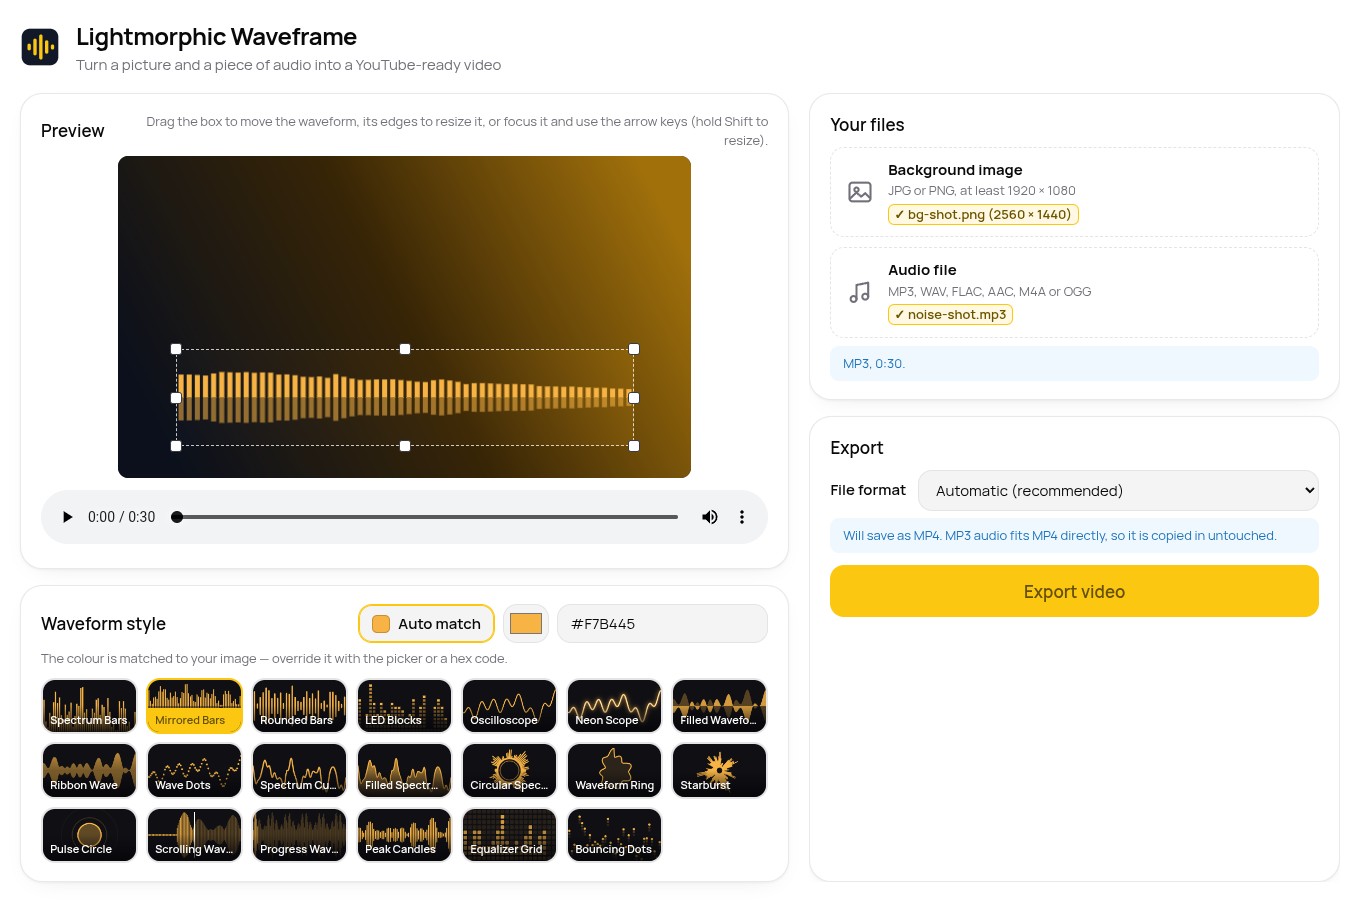
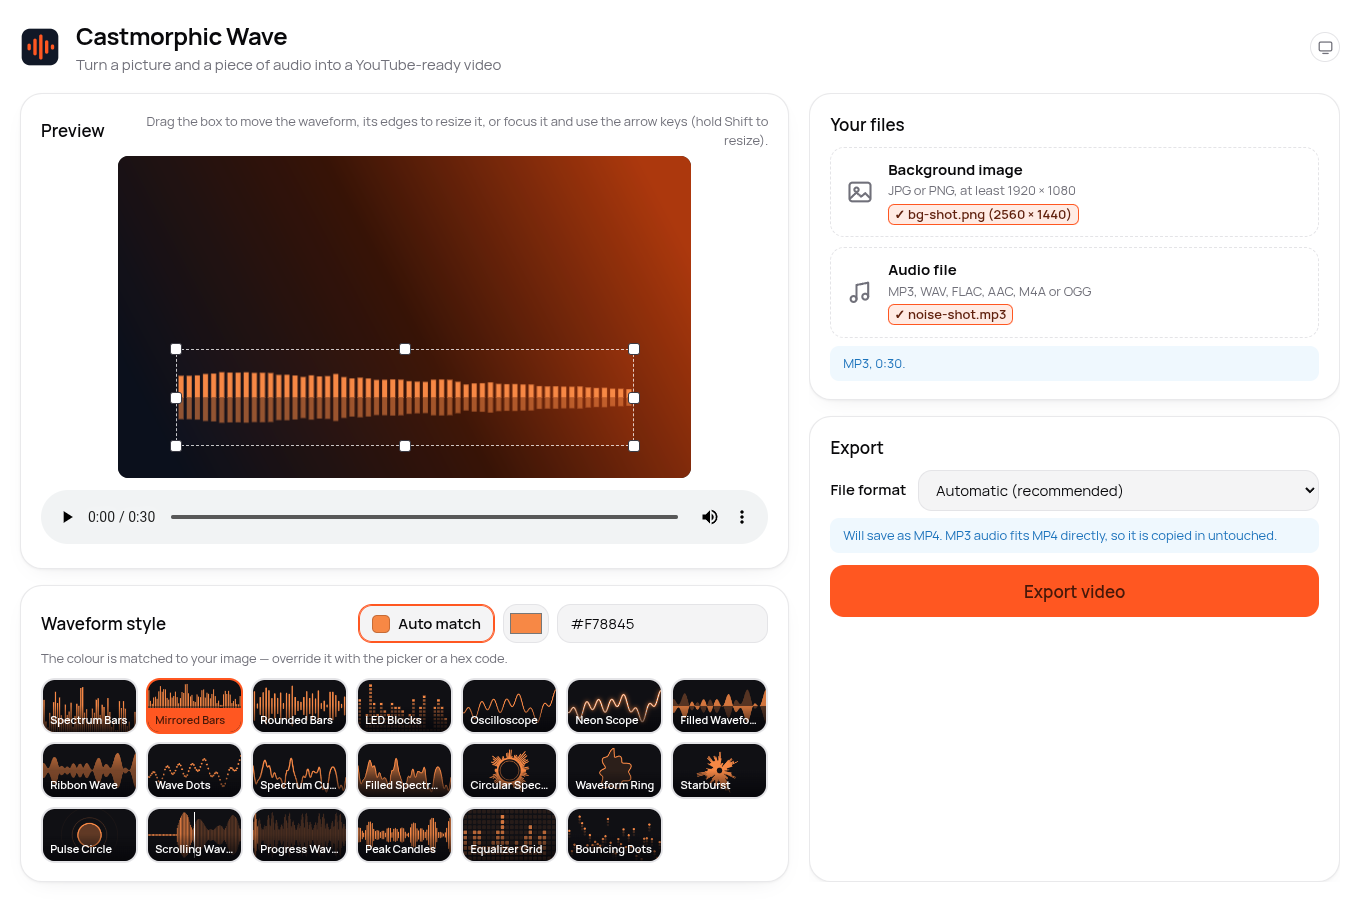
Use the Castmorphic orange, not the Lightmorphic yellow
Castmorphic's brand colour is #FF5721, not Lightmorphic's #FBC711. The
app and the website were still built from the yellow palette.

The accent tokens are taken from castmorphic.com directly, which uses
the same token names, so they map across unchanged: the accent, its
hover and container pairs, and the link colour, in both themes.

Confirmations keep the deliberate choice of the brand colour over green,
now in orange: deep rust text on the pale accent container, 10.6:1 in
light and 8.3:1 in dark, so both clear AA comfortably.

The default waveform colour, the fallback in the style renderer, the
logo in the app header and on the site, the app icon, and the colour
picker's starting value all move to the orange.

The screenshot backdrop gradient moves from amber to rust so that Auto
match still lands on the app's own colour rather than on a hue borrowed
from an unrelated image. Screenshots and the website images are rebuilt
from it, and the site's favicon is the new icon.

The update dot keeps the Lightmorphic status palette - green, amber,
blue, red - because those are the shared update-widget colours across
every app, not this app's brand colour.

Verified: 71 tests pass, and the packaged AppImage launches and exports
with bit-identical audio.

diff --git a/src/renderer/style.css b/src/renderer/style.css
@@ -16,17 +16,17 @@
   --border: #e4e4e7;  --muted: #f4f4f5;  --muted-fg: #71717a;
   --shadow-panel: 0 1px 2px rgba(24,24,40,.05), 0 8px 24px -16px rgba(24,24,40,.18);
 
-  --accent: #fbc711;  --accent-hover: #ddaf0f;  --on-accent: #645007;
-  --accent-container: #fff8e2;  --on-accent-container: #5f4c06;
+  --accent: #ff5721;  --accent-hover: #e04d1d;  --on-accent: #471809;
+  --accent-container: #ffebe4;  --on-accent-container: #61210d;
 
   --brand-navy: #111827;
-  --link: #1b74bc;
+  --link: #c4400f;
   --danger: #cc372d;   --danger-bg: #fef2f1;
-  /* Light mode confirms in the brand yellow rather than green. Flat
-     #fbc711 is unreadable as text on white, so the text is the dark gold
-     from the accent container and the accent itself carries the colour as
-     a rule down the side of the message. */
-  --success: #6b5300;  --success-bg: #fff8e2;
+  /* Light mode confirms in the brand orange rather than green. Flat
+     #ff5721 is unreadable as text on white, so the text is the deep
+     rust from the accent container and the accent itself carries the
+     colour as a rule down the side of the message. 10.6:1. */
+  --success: #61210d;  --success-bg: #ffebe4;
   --warning: #8f6c03;  --warning-bg: #fffbee;
   --info: #1b74bc;     --info-bg: #f0f8fe;
 
@@ -49,12 +49,13 @@
   --panel: #1b1d29;  --panel-border: rgba(255,255,255,.09);
   --border: #27272a;  --muted: #1c1c1f;  --muted-fg: #a1a1aa;
   --shadow-panel: 0 1px 2px rgba(0,0,0,.35), 0 8px 24px -16px rgba(0,0,0,.6);
-  --accent-container: #4b3c05;  --on-accent-container: #fde694;
-  --link: #2295f1;
+  --accent-container: #4d1a0a;  --on-accent-container: #ffb39b;
+  --accent-hover: #ff6b3c;
+  --link: #ff8f68;
   --danger: #f34236;   --danger-bg: #350f0c;
-  /* Same yellow confirmation highlight as light mode, in the dark
-     theme's own accent-container pair so the two themes match. */
-  --success: #fde694;  --success-bg: #4b3c05;
+  /* Same orange confirmation highlight as light mode, in the dark
+     theme's own accent-container pair so the two themes match. 8.3:1. */
+  --success: #ffb39b;  --success-bg: #4d1a0a;
   --warning: #ffc006;  --warning-bg: #382a01;
   --info: #2295f1;     --info-bg: #072135;
 }
@@ -497,8 +498,8 @@ body {
 .dropzone strong { display: block; font-size: 0.9375rem; }
 .dropzone .hint { display: block; margin: 0; }
 .dropzone .file-name {
-  /* A confirmed file is highlighted in the brand yellow: the chip carries
-     the colour, the text is the dark gold that stays readable on it. */
+  /* A confirmed file is highlighted in the brand orange: the chip carries
+     the colour, the text is the deep rust that stays readable on it. */
   display: inline-block;
   margin-top: 0.15rem;
   padding: 0.05rem 0.4rem;
@@ -539,7 +540,7 @@ body {
   background: var(--success-bg);
   color: var(--success);
   /* Keeps a success message distinct from a warning, which sits on a
-     similar pale yellow. */
+     similar pale orange. */
   border-left: 3px solid var(--accent);
 }
 .msg.success .path { word-break: break-all; }

diff --git a/src/renderer/index.html b/src/renderer/index.html
@@ -14,7 +14,7 @@
 <header class="app-header">
   <svg class="logo" viewBox="0 0 48 48" width="40" height="40" aria-hidden="true">
     <rect x="2" y="2" width="44" height="44" rx="10" fill="#111827"/>
-    <g fill="#FBC711">
+    <g fill="#FF5721">
       <rect x="9"  y="20" width="4" height="8"  rx="2"/>
       <rect x="16" y="14" width="4" height="20" rx="2"/>
       <rect x="23" y="9"  width="4" height="30" rx="2"/>
@@ -110,11 +110,11 @@
           </button>
           <label class="colour-pick">
             <span class="visually-hidden">Pick a custom colour</span>
-            <input type="color" id="colour-picker" value="#FBC711">
+            <input type="color" id="colour-picker" value="#FF5721">
           </label>
           <label class="colour-hex">
             <span class="visually-hidden">Hex colour code</span>
-            <input type="text" id="colour-hex" value="#FBC711" spellcheck="false"
+            <input type="text" id="colour-hex" value="#FF5721" spellcheck="false"
                    maxlength="7" pattern="#?[0-9a-fA-F]{6}" aria-describedby="colour-hint">
           </label>
         </div>

diff --git a/site/style.css b/site/style.css
@@ -11,9 +11,10 @@
   --panel: #ffffff;  --panel-border: rgba(24, 24, 40, 0.10);
   --border: #e4e4e7;  --muted: #f4f4f5;  --muted-fg: #71717a;
   --shadow-panel: 0 1px 2px rgba(24,24,40,.05), 0 8px 24px -16px rgba(24,24,40,.18);
-  --accent: #fbc711;  --accent-hover: #ddaf0f;  --on-accent: #645007;
+  --accent: #ff5721;  --accent-hover: #e04d1d;  --on-accent: #471809;
+  --accent-container: #ffebe4;  --on-accent-container: #61210d;
   --brand-navy: #111827;
-  --link: #1b74bc;
+  --link: #c4400f;
   --radius: 0.875rem;
   --panel-radius: 1.375rem;
 }
@@ -24,7 +25,9 @@
     --panel: #1b1d29;  --panel-border: rgba(255,255,255,.09);
     --border: #27272a;  --muted: #1c1c1f;  --muted-fg: #a1a1aa;
     --shadow-panel: 0 1px 2px rgba(0,0,0,.35), 0 8px 24px -16px rgba(0,0,0,.6);
-    --link: #2295f1;
+    --accent-hover: #ff6b3c;
+    --accent-container: #4d1a0a;  --on-accent-container: #ffb39b;
+    --link: #ff8f68;
   }
 }
 

diff --git a/site/index.html b/site/index.html
@@ -77,7 +77,7 @@
     <a class="brand" href="/">
       <svg viewBox="0 0 48 48" width="34" height="34" aria-hidden="true">
         <rect x="2" y="2" width="44" height="44" rx="10" fill="#111827"/>
-        <g fill="#FBC711">
+        <g fill="#FF5721">
           <rect x="9"  y="20" width="4" height="8"  rx="2"/>
           <rect x="16" y="14" width="4" height="20" rx="2"/>
           <rect x="23" y="9"  width="4" height="30" rx="2"/>
@@ -85,7 +85,7 @@
           <rect x="37" y="21" width="4" height="6"  rx="2"/>
         </g>
       </svg>
-      <span>Wave</span>
+      <span>Castmorphic Wave</span>
     </a>
     <nav aria-label="Main">
       <a href="#how">How it works</a>

diff --git a/scripts/screenshots.js b/scripts/screenshots.js
@@ -24,8 +24,8 @@ const FFMPEG = require('ffmpeg-static');
     execFileSync(FFMPEG, ['-hide_banner', '-loglevel', 'error', '-y',
       '-f', 'lavfi', '-i',
       // A warm, on-brand backdrop: Auto match then lands on Wave's own
-      // yellow rather than on a colour borrowed from an unrelated image.
-      'gradients=s=2560x1440:n=3:c0=0x0C1220:c1=0x3F2A07:c2=0xB8800C:x0=200:y0=1300:x1=2400:y1=140:d=1',
+      // orange rather than on a colour borrowed from an unrelated image.
+      'gradients=s=2560x1440:n=3:c0=0x0C1220:c1=0x3F1607:c2=0xC4400F:x0=200:y0=1300:x1=2400:y1=140:d=1',
       '-frames:v', '1', shotBg]);
   }
   if (!fs.existsSync(shotAudio)) {

diff --git a/src/renderer/color.js b/src/renderer/color.js
@@ -5,7 +5,7 @@
 // prominent vivid hue, brightened or deepened so it stands out against
 // the image's overall brightness.
 
-const FALLBACK = '#FBC711';
+const FALLBACK = '#FF5721';
 
 function rgbToHsl(r, g, b) {
   r /= 255; g /= 255; b /= 255;
@@ -69,7 +69,7 @@ function autoColorFromImage(img) {
   for (let b = 0; b < BINS; b++) {
     if (weight[b] > bestW) { bestW = weight[b]; best = b; }
   }
-  // Mostly grey image: no meaningful hue to match, use brand yellow.
+  // Mostly grey image: no meaningful hue to match, use brand orange.
   if (best < 0 || bestW < count * 0.01) return FALLBACK;
 
   const hue = (best + 0.5) / BINS;

diff --git a/scripts/make-icon.js b/scripts/make-icon.js
@@ -15,7 +15,7 @@ const DRAW = `
   ctx.roundRect(16, 16, 480, 480, 104);
   ctx.fillStyle = '#111827';
   ctx.fill();
-  ctx.fillStyle = '#FBC711';
+  ctx.fillStyle = '#FF5721';
   const bars = [
     [92, 212, 88], [164, 148, 216], [236, 96, 320], [308, 168, 176], [380, 224, 64],
   ];

diff --git a/src/renderer/waveforms.js b/src/renderer/waveforms.js
@@ -9,7 +9,7 @@
 
 function hexToRgb(hex) {
   const m = /^#?([0-9a-f]{6})$/i.exec(hex.trim());
-  const n = m ? parseInt(m[1], 16) : 0xfbc711;
+  const n = m ? parseInt(m[1], 16) : 0xff5721;
   return [(n >> 16) & 255, (n >> 8) & 255, n & 255];
 }
 
